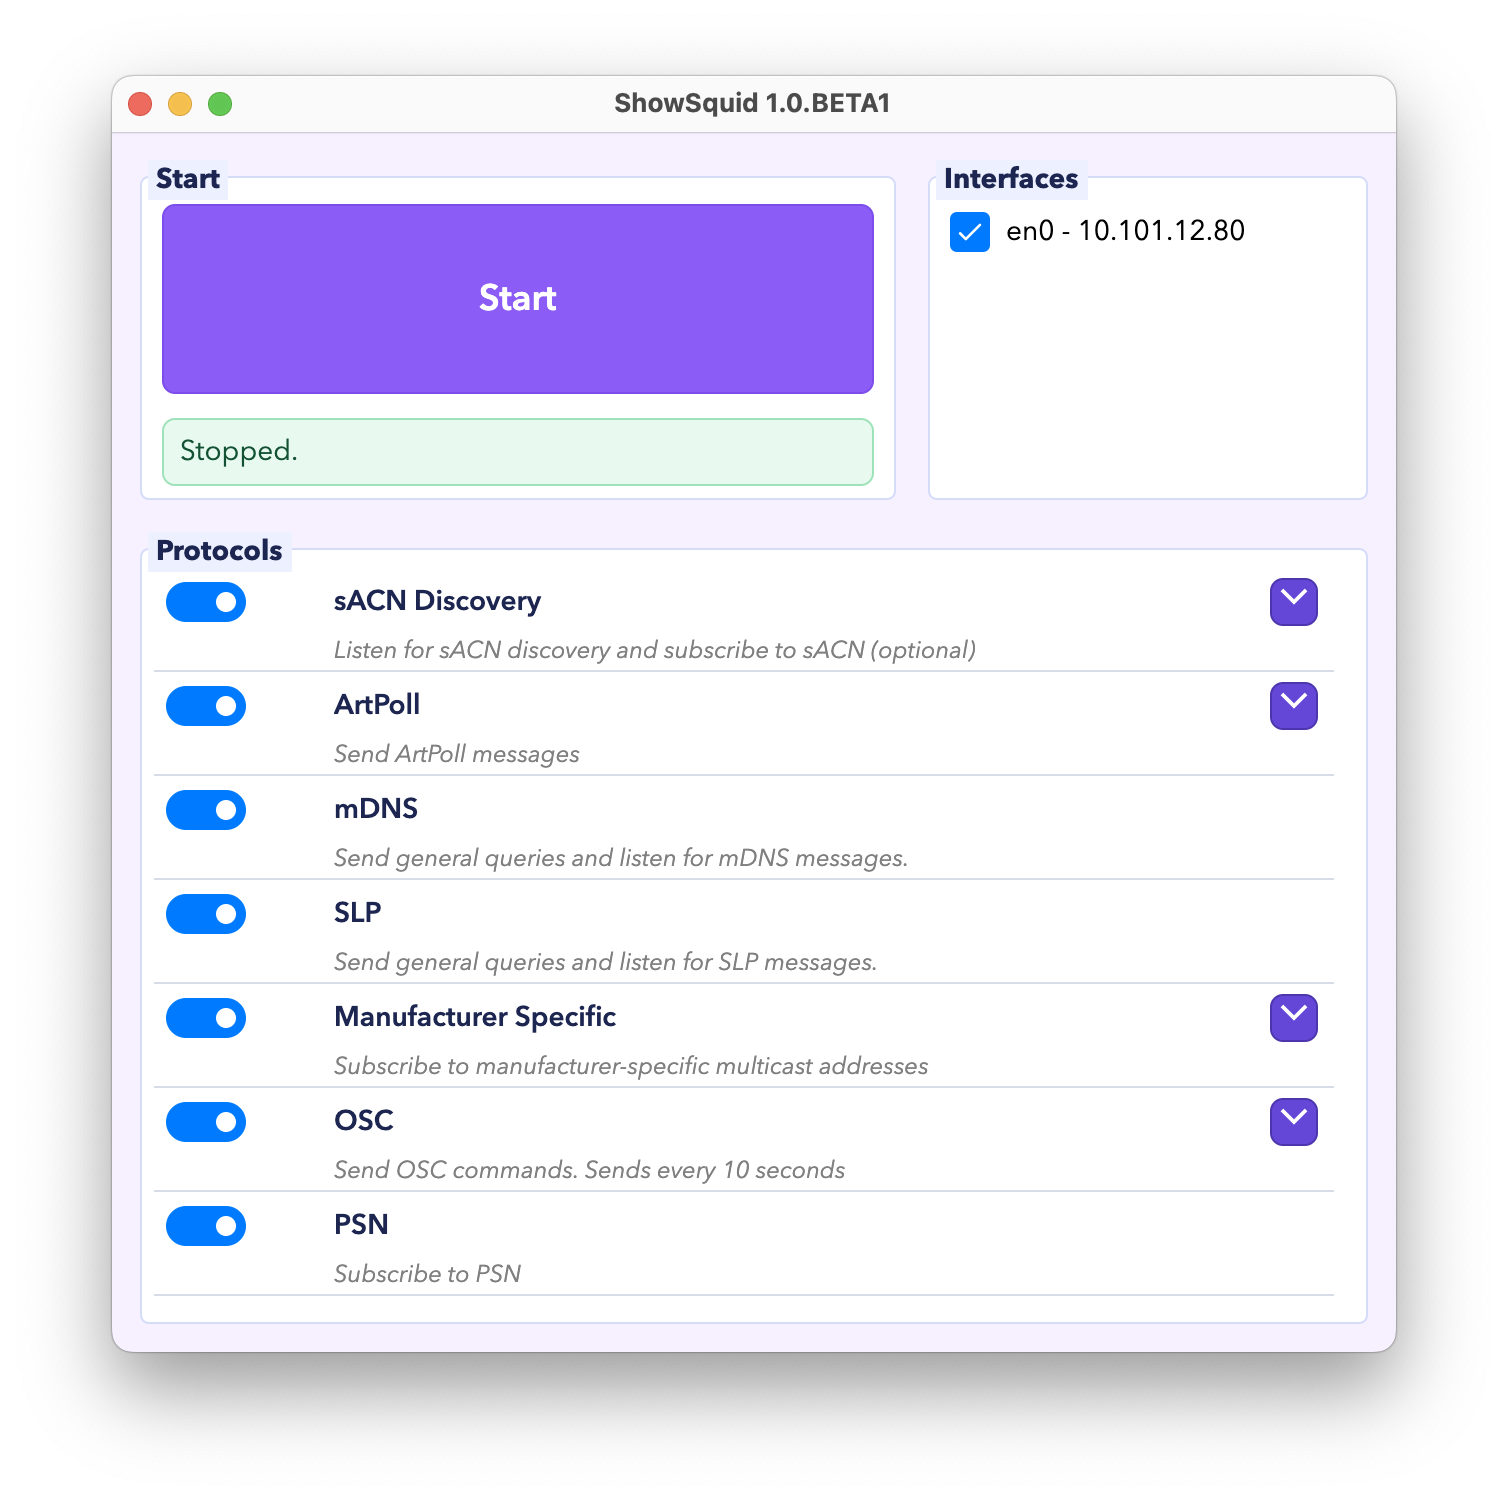
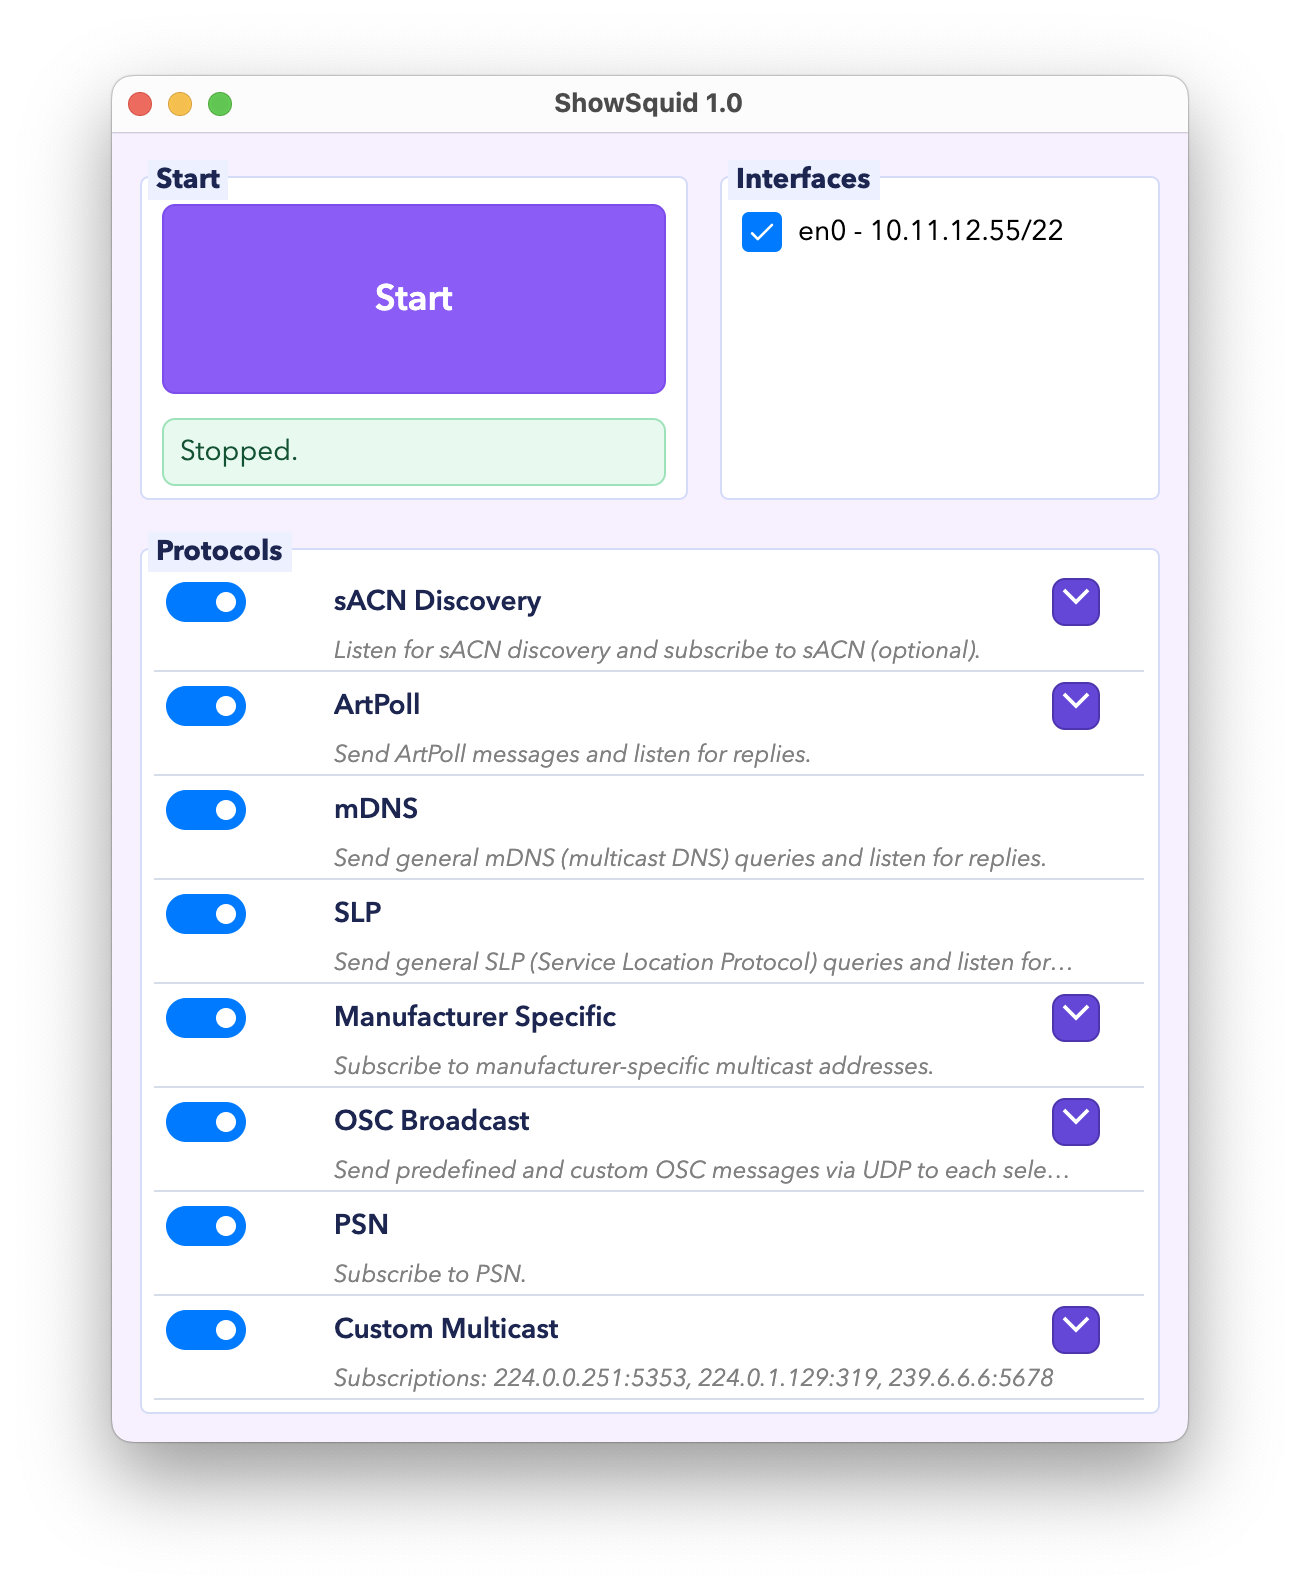
ShowShark and ShowSquid Version 1.0

diff --git a/email_templates/showshark-1.0-apple-mail.html b/email_templates/showshark-1.0-apple-mail.html
@@ -3,7 +3,7 @@
 <head>
   <meta charset="utf-8">
   <meta name="viewport" content="width=device-width, initial-scale=1">
-  <title>ShowShark 1.0.BETA5 and ShowSquid</title>
+  <title>ShowShark 1.0 and ShowSquid</title>
   <style>
     body { margin: 0; padding: 0; background: #ffffff; }
     table { border-collapse: collapse; }
@@ -19,7 +19,7 @@
 </head>
 <body>
   <div style="display:none;max-height:0;overflow:hidden;opacity:0;color:transparent;">
-    ShowShark 1.0.BETA5 is out, along with ShowSquid.
+    ShowShark 1.0 is out, along with ShowSquid.
   </div>
 
   <table role="presentation" width="100%" cellpadding="0" cellspacing="0" style="width:100%;background:#ffffff;">
@@ -32,7 +32,7 @@
                 <img src="https://img.mailinblue.com/10913306/images/content_library/original/69ca7d504ec5dc981bb44fda.png" width="330" alt="ShowShark" style="width:330px;max-width:85%;height:auto;margin:0 auto 16px;">
               </a>
               <div class="hero-title" style="font-family:Tahoma,Geneva,Arial,sans-serif;font-size:24px;line-height:32px;font-weight:400;color:#373737;">
-                ShowShark 1.0.BETA5
+                ShowShark 1.0
               </div>
             </td>
           </tr>
@@ -40,7 +40,7 @@
           <tr>
             <td class="pad" style="padding:36px 30px 12px;font-family:Arial,Helvetica,sans-serif;font-size:16px;line-height:25px;color:#414141;">
               <p style="margin:0 0 18px;">Hello,</p>
-              <p style="margin:0;">I thought you might be interested in a quick update about ShowShark, the Wireshark plugin for understanding entertainment network traffic. Version 1.0.BETA5 is now available, and it is the release candidate for version 1.0.</p>
+              <p style="margin:0;">I thought you might be interested in a quick update about ShowShark, the Wireshark plugin for understanding entertainment network traffic. Version 1.0 is now available, and welcome to the first official release of ShowShark!</p>
             </td>
           </tr>
 
@@ -52,14 +52,13 @@
 
           <tr>
             <td class="pad" style="padding:24px 30px 30px;font-family:Arial,Helvetica,sans-serif;font-size:16px;line-height:25px;color:#414141;">
-              <h2 style="margin:0 0 16px;font-family:Tahoma,Geneva,Arial,sans-serif;font-size:21px;line-height:29px;color:#373737;">What’s New in BETA5?</h2>
+              <h2 style="margin:0 0 16px;font-family:Tahoma,Geneva,Arial,sans-serif;font-size:21px;line-height:29px;color:#373737;">Features in ShowShark 1.0</h2>
               <ul style="margin:0;padding-left:23px;">
                 <li style="margin:0 0 7px;">mDNS and OSC support.</li>
                 <li style="margin:0 0 7px;">DMX and OSC Watchers for tracking values across a capture.</li>
-                <li style="margin:0 0 7px;">Host Table improvements, including filters, CSV export and First Seen and Last Seen columns.</li>
-                <li style="margin:0 0 7px;">Better Filter Builder behaviour.</li>
-                <li style="margin:0 0 7px;">Improved menus and customisation.</li>
-                <li>General fixes and performance improvements.</li>
+                <li style="margin:0 0 7px;">Host Table filters, CSV export and First Seen and Last Seen columns.</li>
+                <li style="margin:0 0 7px;">A Filter Builder for creating display filters without memorising syntax.</li>
+                <li>Customisable menus and packet colouring.</li>
               </ul>
             </td>
           </tr>

diff --git a/download.md b/download.md
@@ -92,7 +92,7 @@ permalink: /download/
   <h2 class="shark-title">ShowShark</h2>
   <h2 class="squid-title">ShowSquid</h2>
   <div class="shark-description">
-    <p><strong style="display: inline-block; font-size: 1.25rem; margin-bottom: 0.35rem;">1.0.BETA5</strong><br>Includes example capture file.</p>
+    <p><strong style="display: inline-block; font-size: 1.25rem; margin-bottom: 0.35rem;">1.0</strong><br>Includes example capture file.</p>
   </div>
   <div class="squid-description">
     <p><a href="/docs/showsquid/">ShowSquid</a> is a desktop companion app that gives ShowShark more network traffic to analyse.</p>
@@ -113,32 +113,10 @@ permalink: /download/
 </div>
 {:/}
 
-## Version 1.0.BETA5 Updates
-
-### What's New
-
-- Added mDNS support.
-- Added OSC support.
-- Added DMX and OSC Watchers.
-- Added Hex DMX view.
-- Added Host Table sort options: `IP_Address`, `Hostname`, and `MAC_Address`.
-
-### What's Fixed
-
-- Improved menu structure and UI flow.
-- Improved protocol labelling.
-- Updated Filter Builder behaviour and user experience.
-- Improved the Host Table with filter buttons, CSV export, and First Seen/Last Seen columns.
-- Improved performance and fixed numerous bugs.
-
 ### Known Issues
 
 - Editing manufacturer and protocol filters manually may not update correctly in the Filter Builder.
 - Some captures may still show incomplete hostnames for noisy discovery traffic.
-
-{::nomarkdown}
-{% include version_history.html %}
-{:/}
 
 {::nomarkdown}
 <hr>
@@ -158,7 +136,7 @@ permalink: /download/
     <form id="download-form" action="https://formspree.io/f/meeeenyy" method="POST" novalidate>
       <input type="hidden" name="_subject" value="ShowShark Download">
       <input type="hidden" name="message" value="ShowShark download">
-      <input type="hidden" name="version" value="v1.0.BETA5">
+      <input type="hidden" name="version" value="v1.0">
       <input type="text" name="_gotcha" tabindex="-1" autocomplete="off" aria-hidden="true" style="position: absolute; left: -9999px;">
       <p style="margin-top: 0; margin-bottom: 1rem; color: #666;">A little bit about you.<br>This helps me understand how ShowShark is being used.</p>
 
@@ -197,11 +175,11 @@ permalink: /download/
 
     <div style="display: grid; gap: 0.75rem;">
       <strong>macOS</strong>
-      <a href="https://github.com/devatsjbarresi/ShowShark-Releases/releases/download/1.0.BETA5/ShowSquid_1.0.BETA1_osx-x64.dmg" data-download-product="ShowSquid" data-download-version="v1.0.BETA1" data-download-platform="macOS x64" class="button" style="background-color: #8561E7; color: white; padding: 12px 18px; border-radius: 8px; text-decoration: none; font-weight: bold; text-align: center;">macOS Intel / x64</a>
-      <a href="https://github.com/devatsjbarresi/ShowShark-Releases/releases/download/1.0.BETA5/ShowSquid_1.0.BETA1_osx-arm64.dmg" data-download-product="ShowSquid" data-download-version="v1.0.BETA1" data-download-platform="macOS arm64" class="button" style="background-color: #8561E7; color: white; padding: 12px 18px; border-radius: 8px; text-decoration: none; font-weight: bold; text-align: center;">macOS Apple Silicon / arm64</a>
+      <a href="https://github.com/devatsjbarresi/ShowShark-Releases/releases/download/1.0/ShowSquid_1.0_osx-x64.dmg" data-download-product="ShowSquid" data-download-version="v1.0" data-download-platform="macOS x64" class="button" style="background-color: #8561E7; color: white; padding: 12px 18px; border-radius: 8px; text-decoration: none; font-weight: bold; text-align: center;">macOS Intel / x64</a>
+      <a href="https://github.com/devatsjbarresi/ShowShark-Releases/releases/download/1.0/ShowSquid_1.0_osx-arm64.dmg" data-download-product="ShowSquid" data-download-version="v1.0" data-download-platform="macOS arm64" class="button" style="background-color: #8561E7; color: white; padding: 12px 18px; border-radius: 8px; text-decoration: none; font-weight: bold; text-align: center;">macOS Apple Silicon / arm64</a>
       <strong style="margin-top: 0.5rem;">Windows</strong>
-      <a href="https://github.com/devatsjbarresi/ShowShark-Releases/releases/download/1.0.BETA5/ShowSquid_1.0.BETA1_win-x64_setup.exe" data-download-product="ShowSquid" data-download-version="v1.0.BETA1" data-download-platform="Windows x64 setup" class="button" style="background-color: #8561E7; color: white; padding: 12px 18px; border-radius: 8px; text-decoration: none; font-weight: bold; text-align: center;">Windows x64 installer</a>
-      <a href="https://github.com/devatsjbarresi/ShowShark-Releases/releases/download/1.0.BETA5/ShowSquid_1.0.BETA1_win-arm64_setup.exe" data-download-product="ShowSquid" data-download-version="v1.0.BETA1" data-download-platform="Windows arm64 setup" class="button" style="background-color: #8561E7; color: white; padding: 12px 18px; border-radius: 8px; text-decoration: none; font-weight: bold; text-align: center;">Windows arm64 installer</a>
+      <a href="https://github.com/devatsjbarresi/ShowShark-Releases/releases/download/1.0/ShowSquid_1.0_win-x64_setup.exe" data-download-product="ShowSquid" data-download-version="v1.0" data-download-platform="Windows x64 setup" class="button" style="background-color: #8561E7; color: white; padding: 12px 18px; border-radius: 8px; text-decoration: none; font-weight: bold; text-align: center;">Windows x64 installer</a>
+      <a href="https://github.com/devatsjbarresi/ShowShark-Releases/releases/download/1.0/ShowSquid_1.0_win-arm64_setup.exe" data-download-product="ShowSquid" data-download-version="v1.0" data-download-platform="Windows arm64 setup" class="button" style="background-color: #8561E7; color: white; padding: 12px 18px; border-radius: 8px; text-decoration: none; font-weight: bold; text-align: center;">Windows arm64 installer</a>
     </div>
   </div>
 </div>
@@ -221,7 +199,7 @@ permalink: /download/
   var showSharkDownloadFrame = document.getElementById('showshark-download-frame');
   var showSquidLinks = document.querySelectorAll('#showsquid-download-modal a[data-download-product]');
   var showSquidDownloadFrame = document.getElementById('showsquid-download-frame');
-  var downloadUrl = 'https://github.com/devatsjbarresi/ShowShark-Releases/releases/download/1.0.BETA5/ShowShark_v1.0.BETA5.zip';
+  var downloadUrl = 'https://github.com/devatsjbarresi/ShowShark-Releases/releases/download/1.0/ShowShark_v1.0.zip';
 
   function trackDownload(payload, endpoint) {
     var trackingForm = document.createElement('form');
@@ -326,7 +304,7 @@ permalink: /download/
         e.preventDefault();
         trackDownload({
           product: link.getAttribute('data-download-product') || 'ShowSquid',
-          version: link.getAttribute('data-download-version') || 'v1.0.BETA1',
+          version: link.getAttribute('data-download-version') || 'v1.0',
           platform: link.getAttribute('data-download-platform') || 'Unknown',
           assetUrl: link.href
         }, showSquidTrackingEndpoint);

diff --git a/_documentation/6_features/6_showsquid_advanced.md b/_documentation/6_features/6_showsquid_advanced.md
@@ -71,15 +71,28 @@ Expand **ArtPoll** to choose how ShowSquid broadcasts ArtPoll messages. **Limite
 
 - Sends SLP service requests and listens for replies.
 
-### OSC
+### OSC Broadcast
 
-Expand **OSC** to enable predefined commands for supported manufacturers or add your own OSC commands. **UDP Out** sets the destination port for each command, while **UDP In** sets the port ShowSquid listens on for incoming messages. Enabled commands are sent every 10 seconds.
+Expand **OSC Broadcast** to enable predefined commands for supported manufacturers or add your own OSC commands.
+
+Messages are sent to the broadcast address of each selected interface's subnet. **UDP Out** sets the destination port for each command, while **UDP In** sets the port ShowSquid listens on for incoming messages. Enabled commands are sent every 10 seconds.
 
 <br>
 
 <p align="center">
   <img src="/assets/images/showsquid/showsquid_osc.png" alt="OSC options with an Eos predefined command, a custom command, and UDP ports"
-       style="width: 65%; border-radius: 10px; filter: drop-shadow(0 12px 16px rgba(0, 0, 0, 0.28));">
+       style="width: 60%; border-radius: 10px; filter: drop-shadow(0 12px 16px rgba(0, 0, 0, 0.28));">
+</p>
+
+### Custom Multicast
+
+Expand **Custom Multicast** to add multicast subscriptions that are not covered by the built in protocol options. ShowSquid joins each subscription on every selected interface but does not send any traffic.
+
+<br>
+
+<p align="center">
+  <img src="/assets/images/showsquid/showsquid_custom_multicast.png" alt="Custom Multicast options with three multicast addresses and UDP ports"
+       style="width: 60%; border-radius: 10px; filter: drop-shadow(0 12px 16px rgba(0, 0, 0, 0.28));">
 </p>
 
 ---

diff --git a/_documentation/1_setup/1_installation.md b/_documentation/1_setup/1_installation.md
@@ -37,7 +37,7 @@ On first run, Wireshark may prompt you to allow access to network interfaces. Gr
 
 1. Double-click the **Personal Lua Plugins** path to open the folder. If it does not exist, allow Wireshark to create it.
 2. Remove any earlier ShowShark plugin files or folders.
-3. Copy the ShowShark Lua plugin file—for example, `ShowShark_v1_0_BETA5.lua`—from the unzipped download into the **Personal Lua Plugins** folder.
+3. Copy the ShowShark Lua plugin file—for example, `ShowShark_v1_0.lua`—from the unzipped download into the **Personal Lua Plugins** folder.
 
 ## Enable the Plugin
 
